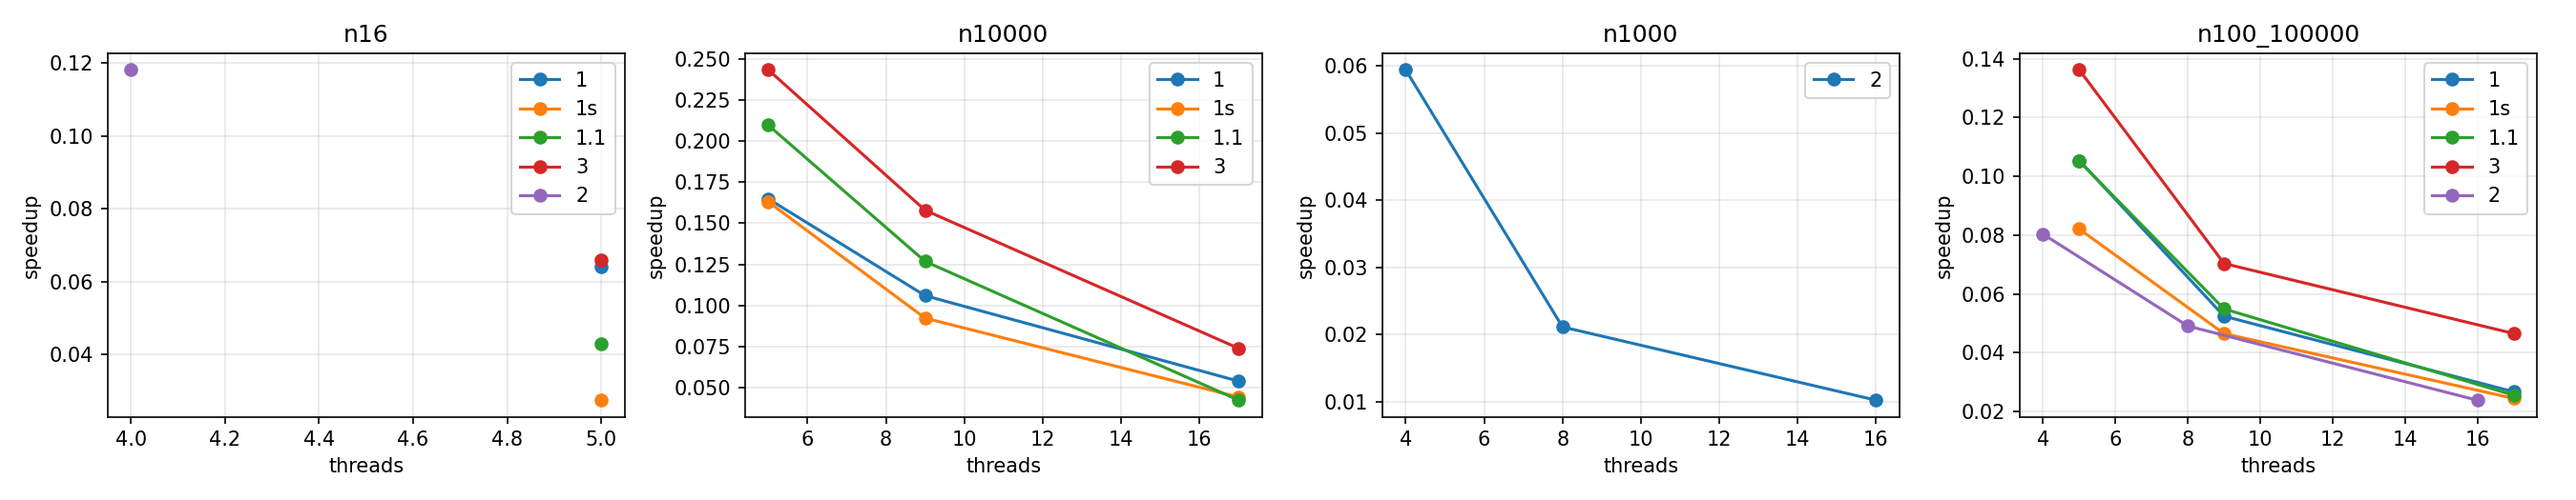
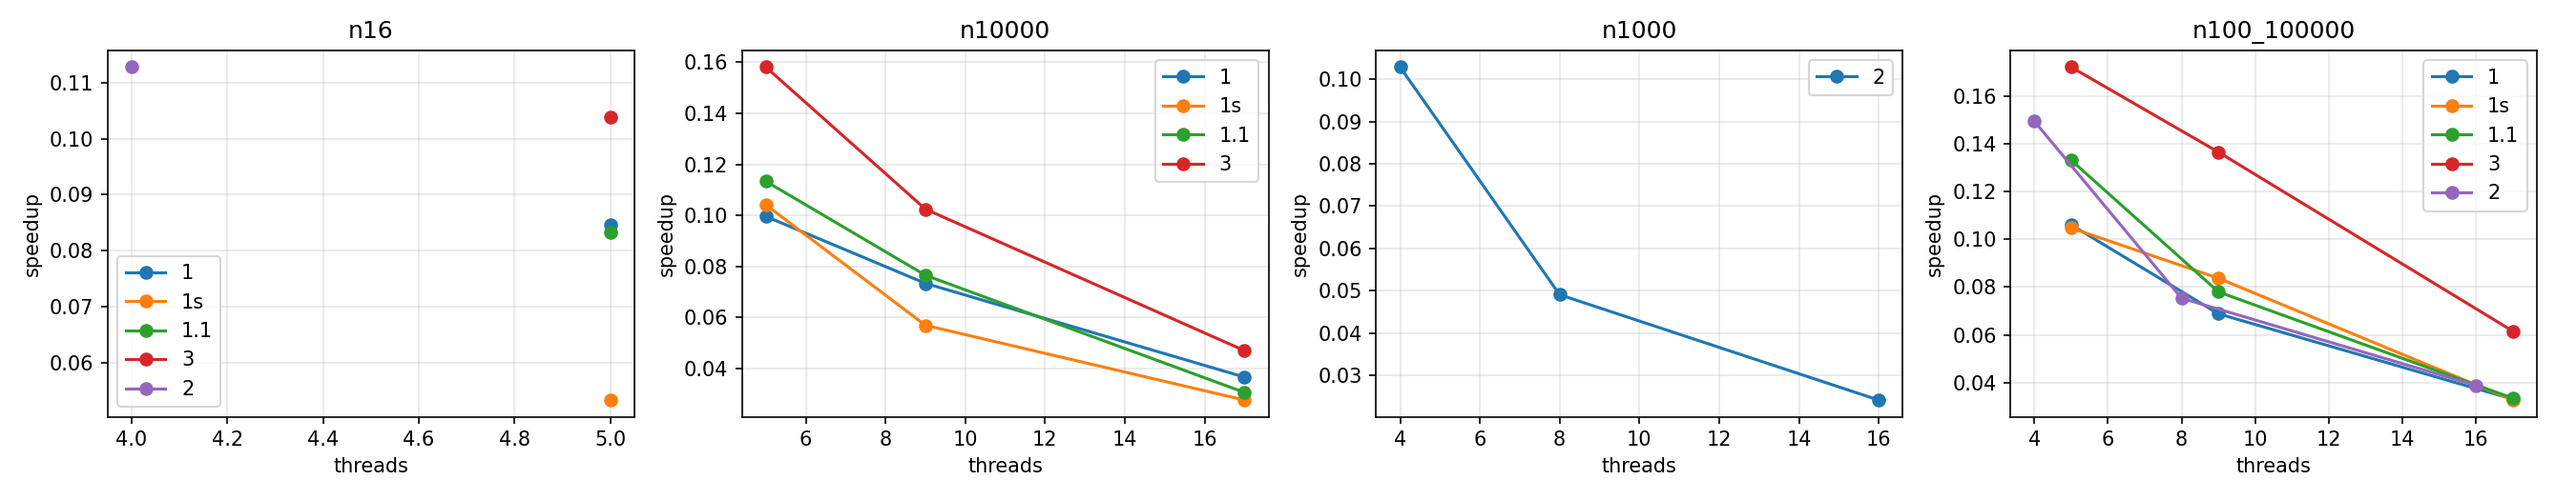
quick fix

diff --git a/lab_solutions/lab3_big_number_sum/mpi/main.cpp b/lab_solutions/lab3_big_number_sum/mpi/main.cpp
@@ -56,9 +56,9 @@ void readDigits(Number& x, digit* out, int count) {
     }
 }
 
-void writeDigits(ofstream& out, const digit* d, int len) {
+void writeDigits(ofstream& out, const digit* d, size_t len) {
     string s(len, '0');
-    for (int i = 0; i < len; i++) s[i] = '0' + d[i];
+    for (size_t i = 0; i < len; i++) s[i] = '0' + d[i];
     out << s;
 }
 
@@ -75,10 +75,6 @@ int addDigits(const digit* a, const digit* b, digit* res, int len, int carry) {
 // digits that worker w (1..workers) gets when n digits are split between the workers
 int chunkSize(int w, int n, int workers) {
     return n / workers + (w - 1 < n % workers ? 1 : 0);
-}
-
-int chunkStart(int w, int n, int workers) {
-    return (w - 1) * (n / workers) + min(w - 1, n % workers);
 }
 
 bool sameFile(const char* f1, const char* f2) {
@@ -130,13 +126,15 @@ void master1(int p) {
     vector<digit> sum;
     for (int w = 1; w <= workers; w++) {
         int len = chunkSize(w, n, workers);
-        // the last process also sends the final carry after its digits
-        int count = (w == workers) ? len + 1 : len;
-        sum.resize(count);
-        MPI_Recv(sum.data(), count, MPI_UNSIGNED_CHAR, w, TAG_SUM, MPI_COMM_WORLD, MPI_STATUS_IGNORE);
+        sum.resize(len);
+        MPI_Recv(sum.data(), len, MPI_UNSIGNED_CHAR, w, TAG_SUM, MPI_COMM_WORLD, MPI_STATUS_IGNORE);
         writeDigits(out, sum.data(), len);
-        if (w == workers && sum[len]) out << 1;
     }
+
+    // the carry that leaves the last process is one more digit
+    int last;
+    MPI_Recv(&last, 1, MPI_INT, workers, TAG_FINAL, MPI_COMM_WORLD, MPI_STATUS_IGNORE);
+    if (last) out << 1;
     out << "\n";
 }
 
@@ -146,7 +144,7 @@ void worker1(int rank, int p) {
     MPI_Bcast(&n, 1, MPI_INT, 0, MPI_COMM_WORLD);
     int workers = p - 1;
     int len = chunkSize(rank, n, workers);
-    vector<digit> a(len), b(len), sum(len + 1);
+    vector<digit> a(len), b(len), sum(len);
 
     MPI_Recv(a.data(), len, MPI_UNSIGNED_CHAR, 0, TAG_A, MPI_COMM_WORLD, MPI_STATUS_IGNORE);
     MPI_Recv(b.data(), len, MPI_UNSIGNED_CHAR, 0, TAG_B, MPI_COMM_WORLD, MPI_STATUS_IGNORE);
@@ -157,14 +155,13 @@ void worker1(int rank, int p) {
     carry = addDigits(a.data(), b.data(), sum.data(), len, carry);
 
     // the carry goes first, so the next process does not wait for the sum to reach process 0
-    int count = len;
     if (rank < workers) {
         SEND(&carry, 1, MPI_INT, rank + 1, TAG_CARRY, MPI_COMM_WORLD);
-    } else {
-        sum[len] = carry;
-        count = len + 1;
     }
-    SEND(sum.data(), count, MPI_UNSIGNED_CHAR, 0, TAG_SUM, MPI_COMM_WORLD);
+    SEND(sum.data(), len, MPI_UNSIGNED_CHAR, 0, TAG_SUM, MPI_COMM_WORLD);
+    if (rank == workers) {
+        SEND(&carry, 1, MPI_INT, 0, TAG_FINAL, MPI_COMM_WORLD);
+    }
 }
 
 // variant 1.1, processes with id > 0: add first as if the carry was 0, fix the result when the real carry arrives
@@ -173,7 +170,7 @@ void worker11(int rank, int p) {
     MPI_Bcast(&n, 1, MPI_INT, 0, MPI_COMM_WORLD);
     int workers = p - 1;
     int len = chunkSize(rank, n, workers);
-    vector<digit> a(len), b(len), sum(len + 1);
+    vector<digit> a(len), b(len), sum(len);
 
     MPI_Recv(a.data(), len, MPI_UNSIGNED_CHAR, 0, TAG_A, MPI_COMM_WORLD, MPI_STATUS_IGNORE);
     MPI_Recv(b.data(), len, MPI_UNSIGNED_CHAR, 0, TAG_B, MPI_COMM_WORLD, MPI_STATUS_IGNORE);
@@ -200,14 +197,13 @@ void worker11(int rank, int p) {
     }
     int carryOut = allNines ? carryIn : carry0;
 
-    int count = len;
-    if (rank < workers) {
-        if (allNines) SEND(&carryOut, 1, MPI_INT, rank + 1, TAG_CARRY, MPI_COMM_WORLD);
-    } else {
-        sum[len] = carryOut;
-        count = len + 1;
+    if (rank < workers && allNines) {
+        SEND(&carryOut, 1, MPI_INT, rank + 1, TAG_CARRY, MPI_COMM_WORLD);
     }
-    SEND(sum.data(), count, MPI_UNSIGNED_CHAR, 0, TAG_SUM, MPI_COMM_WORLD);
+    SEND(sum.data(), len, MPI_UNSIGNED_CHAR, 0, TAG_SUM, MPI_COMM_WORLD);
+    if (rank == workers) {
+        SEND(&carryOut, 1, MPI_INT, 0, TAG_FINAL, MPI_COMM_WORLD);
+    }
 }
 
 // variant 2, scatter and gather, process 0 adds too
@@ -244,19 +240,18 @@ void variant2(int rank, int p) {
 
     MPI_Gather(lsum.data(), len, MPI_UNSIGNED_CHAR, sum.data(), len, MPI_UNSIGNED_CHAR, 0, MPI_COMM_WORLD);
 
-    // the final carry goes after the gather, process 0 is waiting in it for this process
+    // the carry of the last process goes after the gather, process 0 is waiting in it for that process
     if (rank == p - 1) {
         SEND(&carry, 1, MPI_INT, 0, TAG_FINAL, MPI_COMM_WORLD);
     }
-
     if (rank == 0) {
         int last;
         MPI_Recv(&last, 1, MPI_INT, p - 1, TAG_FINAL, MPI_COMM_WORLD, MPI_STATUS_IGNORE);
-        // when n was rounded up, the carry is the digit at position n
-        if (total > n) last = last || sum[n];
+        if (last) sum.push_back(1);
+        // the zeros added to reach a multiple of p are not part of the sum
+        while ((int)sum.size() > n && sum.back() == 0) sum.pop_back();
         ofstream out("Numar3.txt");
-        writeDigits(out, sum.data(), n);
-        if (last) out << 1;
+        writeDigits(out, sum.data(), sum.size());
         out << "\n";
     }
 }
@@ -272,7 +267,7 @@ void master3(int p) {
 
     // the buffers have to stay alive until the sends are done
     vector<vector<digit>> a(workers), b(workers);
-    vector<MPI_Request> reqs(3 * workers);
+    vector<MPI_Request> reqs(3 * workers + 1);
     int k = 0;
     for (int w = 1; w <= workers; w++) {
         int len = chunkSize(w, n, workers);
@@ -284,18 +279,20 @@ void master3(int p) {
         MPI_Isend(b[w - 1].data(), len, MPI_UNSIGNED_CHAR, w, TAG_B, MPI_COMM_WORLD, &reqs[k++]);
     }
 
-    // every sum goes straight to its place, the last one brings the final carry at position n
-    vector<digit> sum(n + 1);
+    // every sum goes straight to its place in the result, whatever the order they arrive in
+    vector<digit> sum(n);
+    int start = 0, last = 0;
     for (int w = 1; w <= workers; w++) {
         int len = chunkSize(w, n, workers);
-        int count = (w == workers) ? len + 1 : len;
-        MPI_Irecv(&sum[chunkStart(w, n, workers)], count, MPI_UNSIGNED_CHAR, w, TAG_SUM, MPI_COMM_WORLD, &reqs[k++]);
+        MPI_Irecv(sum.data() + start, len, MPI_UNSIGNED_CHAR, w, TAG_SUM, MPI_COMM_WORLD, &reqs[k++]);
+        start += len;
     }
+    MPI_Irecv(&last, 1, MPI_INT, workers, TAG_FINAL, MPI_COMM_WORLD, &reqs[k++]);
     MPI_Waitall(k, reqs.data(), MPI_STATUSES_IGNORE);
 
     ofstream out("Numar3.txt");
     writeDigits(out, sum.data(), n);
-    if (sum[n]) out << 1;
+    if (last) out << 1;
     out << "\n";
 }
 
@@ -305,7 +302,7 @@ void worker3(int rank, int p) {
     MPI_Bcast(&n, 1, MPI_INT, 0, MPI_COMM_WORLD);
     int workers = p - 1;
     int len = chunkSize(rank, n, workers);
-    vector<digit> a(len), b(len), sum(len + 1);
+    vector<digit> a(len), b(len), sum(len);
     int carry = 0;
 
     MPI_Request in[3];
@@ -319,16 +316,15 @@ void worker3(int rank, int p) {
 
     carry = addDigits(a.data(), b.data(), sum.data(), len, carry);
 
-    MPI_Request out[2];
+    MPI_Request out[3];
     k = 0;
-    int count = len;
     if (rank < workers) {
         MPI_Isend(&carry, 1, MPI_INT, rank + 1, TAG_CARRY, MPI_COMM_WORLD, &out[k++]);
-    } else {
-        sum[len] = carry;
-        count = len + 1;
     }
-    MPI_Isend(sum.data(), count, MPI_UNSIGNED_CHAR, 0, TAG_SUM, MPI_COMM_WORLD, &out[k++]);
+    MPI_Isend(sum.data(), len, MPI_UNSIGNED_CHAR, 0, TAG_SUM, MPI_COMM_WORLD, &out[k++]);
+    if (rank == workers) {
+        MPI_Isend(&carry, 1, MPI_INT, 0, TAG_FINAL, MPI_COMM_WORLD, &out[k++]);
+    }
     MPI_Waitall(k, out, MPI_STATUSES_IGNORE);
 }
 

diff --git a/lab_solutions/lab3_big_number_sum/docs/lab3_big_number_sum.md b/lab_solutions/lab3_big_number_sum/docs/lab3_big_number_sum.md
@@ -10,13 +10,13 @@ The program adds two big numbers (more than 10 digits) with MPI, in C++. A numbe
 
 The files have the number of digits on the first line and the digits on the second, written in the order of the array, so the least significant digit comes first. The statement does not say which end of the number is written first. I chose this order because process 0 has to send the first digits to process 1 before it reads the rest, and those are the digits that have no carry coming in. `Numar3.txt` has only the digits of the sum, in the same order, and the sum has one digit more than the longer number when a carry is left. If a number is shorter it is padded with zeros while it is read.
 
-Variant 1. Process 0 only reads, sends, receives and writes. The other p - 1 processes add. Process 0 first sends the number of digits n of the longer number to everyone (`MPI_Bcast`). The digits are split between the p - 1 processes so that each one gets n / (p - 1) digits and the first n % (p - 1) get one more, so every digit is added exactly once. Process 0 reads one piece from each file and sends it to process 1, then the next piece to process 2, and so on, so it never holds the whole number. A process with id > 0 first receives its two pieces and then the carry from the previous process (process 1 uses 0), adds, sends the carry to the next process and then sends the digits of the sum to process 0. The carry is sent before the sum on purpose, so the next process does not wait for the sum to reach process 0. After sending all the pieces process 0 receives the sums in the order of the processes and writes each one as soon as it arrives. The last process also sends the final carry after its digits, and process 0 writes it as one more digit if it is 1.
+Variant 1. Process 0 only reads, sends, receives and writes. The other p - 1 processes add. Process 0 first sends the number of digits n of the longer number to everyone (`MPI_Bcast`). The digits are split between the p - 1 processes so that each one gets n / (p - 1) digits and the first n % (p - 1) get one more, so every digit is added exactly once. Process 0 reads one piece from each file and sends it to process 1, then the next piece to process 2, and so on, so it never holds the whole number. A process with id > 0 first receives its two pieces and then the carry from the previous process (process 1 uses 0), adds, sends the carry to the next process and then sends the digits of the sum to process 0. The carry is sent before the sum on purpose, so the next process does not wait for the sum to reach process 0. After sending all the pieces process 0 receives the sums in the order of the processes and writes each one as soon as it arrives. The carry that leaves the last process goes to process 0 in its own message, after its sum, and process 0 writes it as one more digit if it is 1. The same rule is used in all the variants.
 
 I checked that there is no deadlock by assuming that `MPI_Send` waits for the receiver: process 0 sends to process 1, 2, ... in order and each of them starts with the receive from process 0. The carry goes only forward, from process i to i + 1, and the process i + 1 receives it after its pieces. The sums go to process 0, which receives them after it sent everything. There is no cycle of processes waiting for each other. To test it I built the program a second time with `MPI_Ssend` instead of `MPI_Send` (`-DSYNC` in the Makefile) and ran it the same way. Variant 1 with `MPI_Ssend` is called 1s in the results.
 
 Variant 1.1. The question in the statement is whether a process can add before the carry arrives. It can. Each process adds its digits as if the carry was 0 and keeps the result. When the real carry arrives, if it is 1, the process adds 1 to its sum, starting at the lowest digit and going up while the digits are 9, so in most cases it changes one digit. What this variant needs is to know the carry that goes out of the process, which the next one waits for. If the sum of the piece is not 99...9, the carry that goes out is the one computed with carry 0, whatever comes in, so the process sends it right away, before it receives its own carry. Only when the sum is 99...9 does the carry that goes out depend on the carry that comes in (it is the same), so that process has to wait for it. The numbers `9999 4444 4444 9999` and `9999 5555 5555 9999` from the statement are a case where the middle pieces are 99...9 and the carry has to go through them. I implemented this one and compared it with variant 1.
 
-Variant 2. Process 0 reads both numbers completely. If p does not divide n, n is rounded up to a multiple of p and the numbers are padded with zeros. `MPI_Scatter` gives each process, including process 0, n / p digits of each number. Each process receives the carry from the previous one (process 0 starts with 0), adds, and sends the carry to the next one. `MPI_Gather` brings the digits of the sum to process 0, which writes the file. The carry that goes out of the last process is sent to process 0 after the gather (not before: with a synchronous send the last process would wait for process 0, while process 0 waits in the gather for it, and the program blocks, which `MPI_Ssend` shows). If n was rounded up, the final carry is already the digit at position n.
+Variant 2. Process 0 reads both numbers completely. If p does not divide n, n is rounded up to a multiple of p and the numbers are padded with zeros. `MPI_Scatter` gives each process, including process 0, n / p digits of each number. Each process receives the carry from the previous one (process 0 starts with 0), adds, and sends the carry to the next one. `MPI_Gather` brings the digits of the sum to process 0, which writes the file. The carry that leaves the last process goes to process 0 after the gather, not before it: with a synchronous send the last process would wait for process 0 while process 0 waits in the gather for it, and the program blocks, which `MPI_Ssend` shows. Process 0 adds that carry as one more digit if it is 1 and cuts from the top of the sum the zeros that were added to reach a multiple of p.
 
 Variant 3. Process 0 reads a piece for each process and sends it with `MPI_Isend`, keeping the buffers until all the sends are done. A process with id > 1 receives the two pieces from process 0 and the carry from the previous process, and the order in which they arrive is not known, so it starts the three receives with `MPI_Irecv` and waits for all of them with `MPI_Waitall`. Then it adds and sends the carry and its sum with `MPI_Isend`. Process 0 starts one `MPI_Irecv` for each sum, directly into its place in the result array, and waits for all with `MPI_Waitall`, so it does not matter in which order the processes finish. The statement says N / p digits for variant 3 and N / (p - 1) for variant 1. Process 0 does not add in either of them, so only p - 1 processes get digits, and I used N / (p - 1) in both.
 
@@ -24,7 +24,7 @@ Variant 3. Process 0 reads a piece for each process and sends it with `MPI_Isend
 
 Everything is in `mpi/main.cpp`, compiled with `mpic++ -std=c++17 -O2`, and started with `mpirun -np p build/main <variant>`, where the variant is 0, 1, 1.1, 2 or 3. The sequential version needs one process. It writes `output_seq.txt`. The parallel ones write `Numar3.txt` and process 0 compares it with `output_seq.txt` in `sameFile()` after the time was taken, on every run. If the files are different the program exits with code 1.
 
-The functions are `readDigits()` (reads a piece of a number, zeros after the last digit), `addDigits()` (adds two pieces and a carry), `chunkSize()` and `chunkStart()` (the split with the remainder), `sequential()`, `master1()` with `worker1()` and `worker11()` for variants 1 and 1.1, `variant2()`, and `master3()` with `worker3()`.
+The functions are `readDigits()` (reads a piece of a number, zeros after the last digit), `addDigits()` (adds two pieces and a carry), `chunkSize()` (the split with the remainder), `sequential()`, `master1()` with `worker1()` and `worker11()` for variants 1 and 1.1, `variant2()`, and `master3()` with `worker3()`.
 
 The time is taken by process 0 with `MPI_Wtime()`, after a barrier that starts all the processes together and before a barrier at the end. It starts before the files are opened and ends after the sum is written, so it includes reading the numbers, as the statement asks, and writing the result. The same is measured in the sequential version. The time in ms is the only line printed. `tools/bench.sh` runs the program 10 times, each run being a new `mpirun`, and saves the mean in a csv.
 
